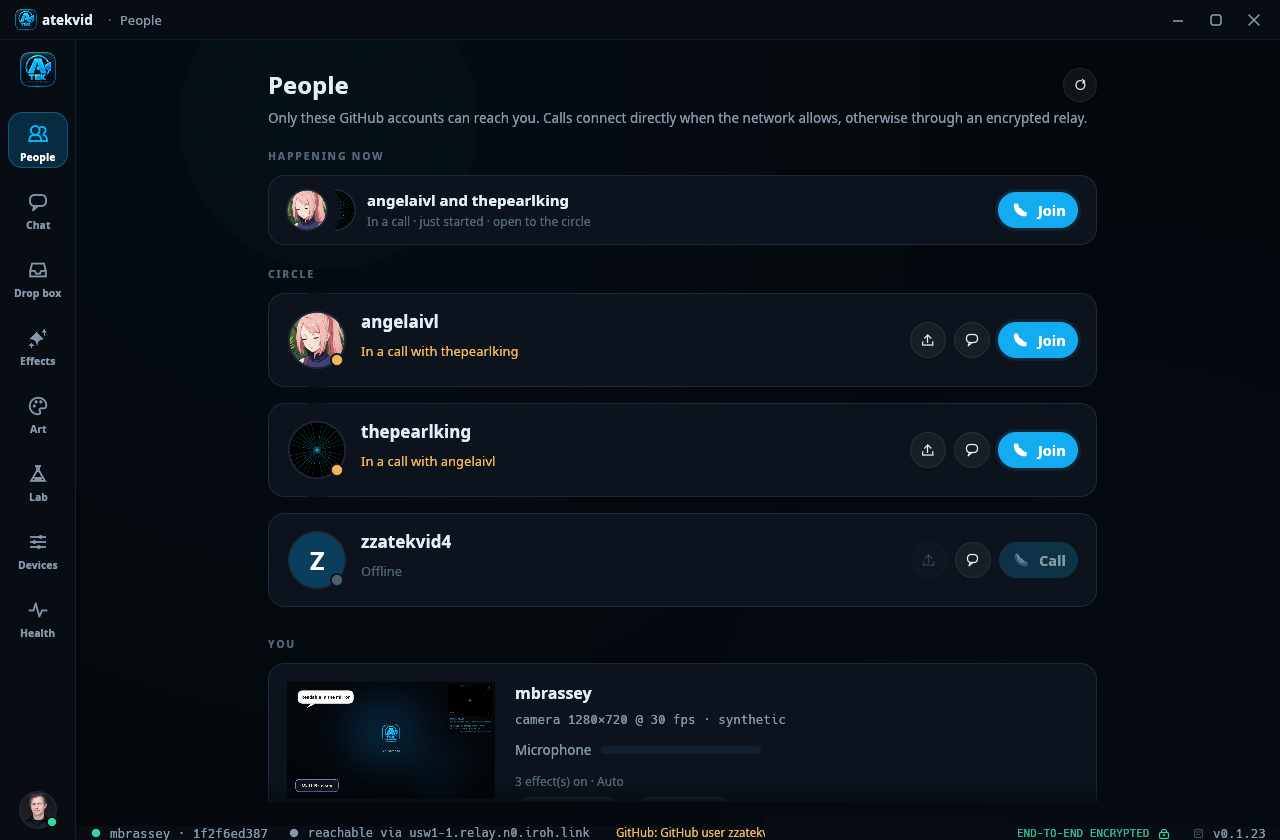
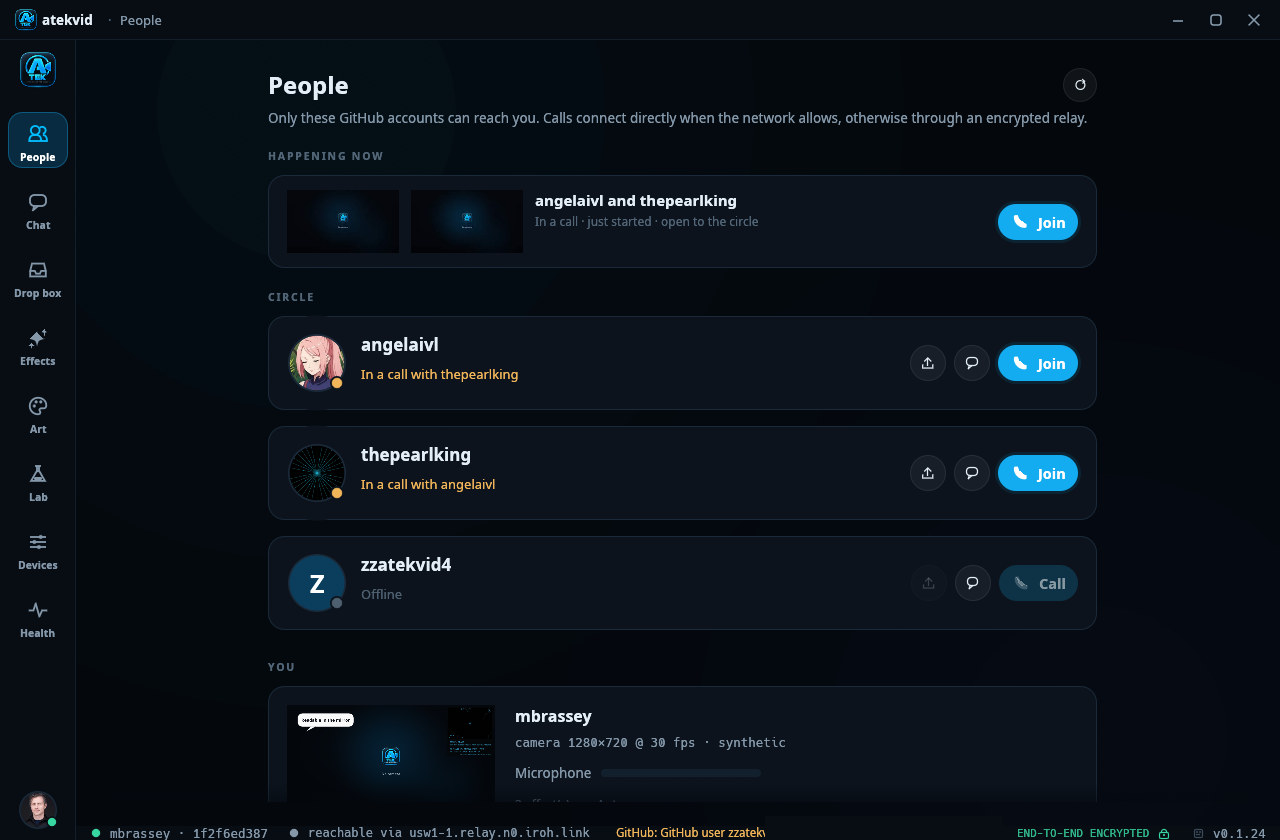
atekvid 0.1.24: live pictures of the circle's calls

diff --git a/README.md b/README.md
@@ -82,7 +82,11 @@ by hand.
   can make it private from the call's header; a private call still shows who
   is in it, but nobody can walk in. People who arrive at the same moment
   find each other on their own, so a call of four always ends up with
-  everyone connected to everyone.
+  everyone connected to everyone. While a call is open, the people in it
+  show as small live pictures under *Happening now* (and when you rest on
+  the status bar's note), refreshed every couple of seconds, with no sound
+  and nothing shared but their camera; everyone in the call sees who is
+  looking in.
 - **Screen sharing.** Share a screen or a single window with everyone in the
   call; several people can share at once. On Wayland the desktop's own picker
   chooses what is shared (through the ScreenCast portal and PipeWire); on X11
@@ -294,8 +298,9 @@ and Voice out put your voice through a rack, here the Robot voice.
 <p align="center"><img src="docs/voice-call.png" width="820" alt="The voice changer on a call"></p>
 <p align="center"><img src="docs/voice-rack.png" width="820" alt="The Robot voice rack"></p>
 
-**Happening now.** A call between two people in the circle, with a way in
-from the People list, the status bar and the tray.
+**Happening now.** A call between two people in the circle, with small live
+pictures of them and a way in from the People list, the status bar and the
+tray.
 
 <p align="center"><img src="docs/calls.png" width="820" alt="A call in the circle, ready to join"></p>
 
